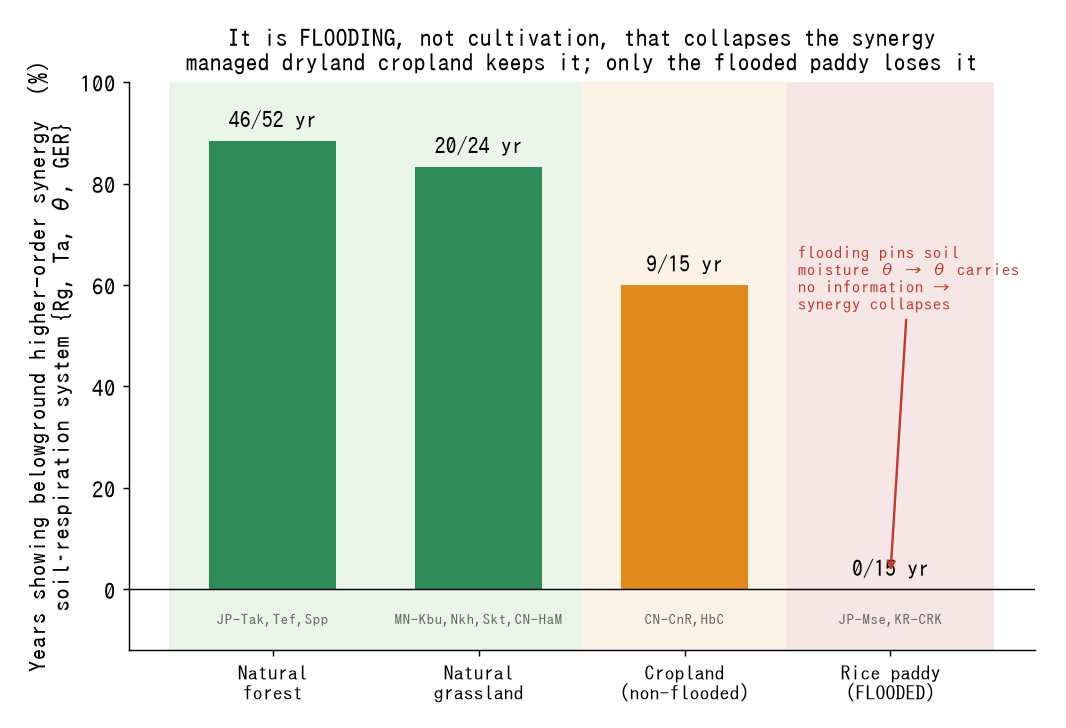
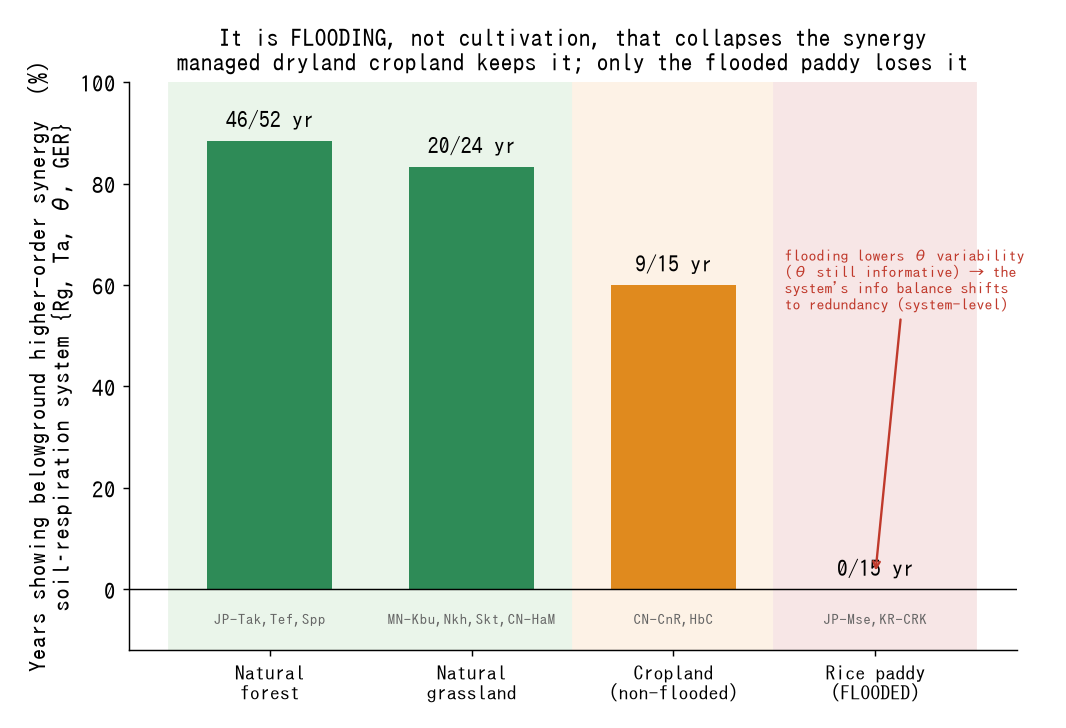
旗18で機構決着：θは水田でやや固定だが無情報でない→fig6注釈と機構説明を修正
旗18(生θ)実データ：水田JP-Mseのθ季節内CV=0.067(自然の1/2〜1/3)・H=0.92(自然~1.5)＝最も動かない
が無情報ではない。CV比1.19は普通＝旗17のプール交絡説も否定。結論：fig6(系レベル冗長0/8)と
旗17(θ×温度ペア相乗最強)は別の量で両立、機構は「θ変動やや減→系レベル冗長へ傾くがθ×温度相互作用は
残る」＝単純なθ消去でない。

fig6のannotate「θ carries no information→synergy collapses」を「flooding lowers θ variability
(θ still informative)→system info balance shifts to redundancy」に修正し再生成。RESULTS_3LAYERS/
PRESENTATIONの機構説明を精緻化。FLAGS_LOGに旗18記録。

Claude-Session: https://claude.ai/code/session_01TzhwTtoX4vrtgG68YR6oek

diff --git a/scripts/make_slides_figs.py b/scripts/make_slides_figs.py
@@ -341,8 +341,8 @@ def fig_flooding():
     ax.set_title("It is FLOODING, not cultivation, that collapses the synergy\n"
                  "managed dryland cropland keeps it; only the flooded paddy loses it",
                  fontsize=13.5)
-    ax.annotate("flooding pins soil\nmoisture θ → θ carries\nno information →\nsynergy collapses",
-                xy=(3, 3), xytext=(2.55, 55), fontsize=9.5, color=RED,
+    ax.annotate("flooding lowers θ variability\n(θ still informative) → the\nsystem's info balance shifts\nto redundancy (system-level)",
+                xy=(3, 3), xytext=(2.55, 55), fontsize=9.0, color=RED,
                 ha="left", arrowprops=dict(arrowstyle="->", color=RED, lw=1.3))
     fig.savefig(OUT/"fig6_flooding_mechanism.png"); plt.close(fig)
 

diff --git a/research/FLAGS_LOG.md b/research/FLAGS_LOG.md
@@ -181,3 +181,23 @@
     「θ 無情報」が本当かを検証すべき。
   - 未解決（正直に）：なぜ水田で θ×温度 ペア相乗が最強か（GER 分割の性質か／プール年々差 θ か）は要調査。
   （合成で表・判定・図を検証、実データで予想外を検出。ツールの定型結論も「相乗残存なら機構整合と言わない」よう修正。）
+
+## 旗18（θは水田で本当に"無情報"か＝fig6機構の直接検証）
+- `research/theta_entropy_step18.py` — 生の絶対 θ の季節内CV(std/mean, スケール不変の固定指標)・
+  エントロピーをサイト比較。実データ（生 θ）：
+  | サイト | 季節内CV | 季節内H | CV比(プ/内) |
+  |---|---|---|---|
+  | JP-Tak | 0.106 | 1.478 | 1.24 |
+  | JP-Ta2 | 0.144 | 1.470 | 1.94 |
+  | CN-HaM | 0.170 | 1.635 | 1.13 |
+  | **JP-Mse 水田** | **0.067** | **0.922** | 1.19 |
+- **結論（3択の真ん中）**：
+  1. 水田θは確かに最も動かない（CV 自然の1/2〜1/3、H 約6割）＝「湛水でθ変動が減る」は**穏やかに支持**。
+  2. だが**「θ無情報」は過大**：H=0.92 nats はゼロでない＝θは"やや減る"だけで情報を保持。
+  3. **旗17はプール交絡でない**：水田 CV比=1.19 は普通（JP-Ta2 1.94 の方が大）＝
+     「旗17 の水田相乗はプール年々差のせい」という別解も**否定**。
+- **機構の決着**：fig6(系レベル冗長 0/8)と旗17(θ×温度ペア相乗が最強)は**別の量で両立**。
+  正：「θ変動はやや減り系レベルは冗長へ傾くが、θ×温度の相互作用は残る」。誤：「θ無情報化で相乗崩壊」。
+  ＝機構は単純なθ消去でない。fig6 の annotate 文言（θ carries no info）は要修正。
+- 方法メモ：旗17 はアノマリθ（全解析と同じ空間＝正しい）、旗18 は絶対θ（"固定度"を見る別の問い）。
+  だから旗17 の作り直しは不要（別の量を別の空間で測っている）。
